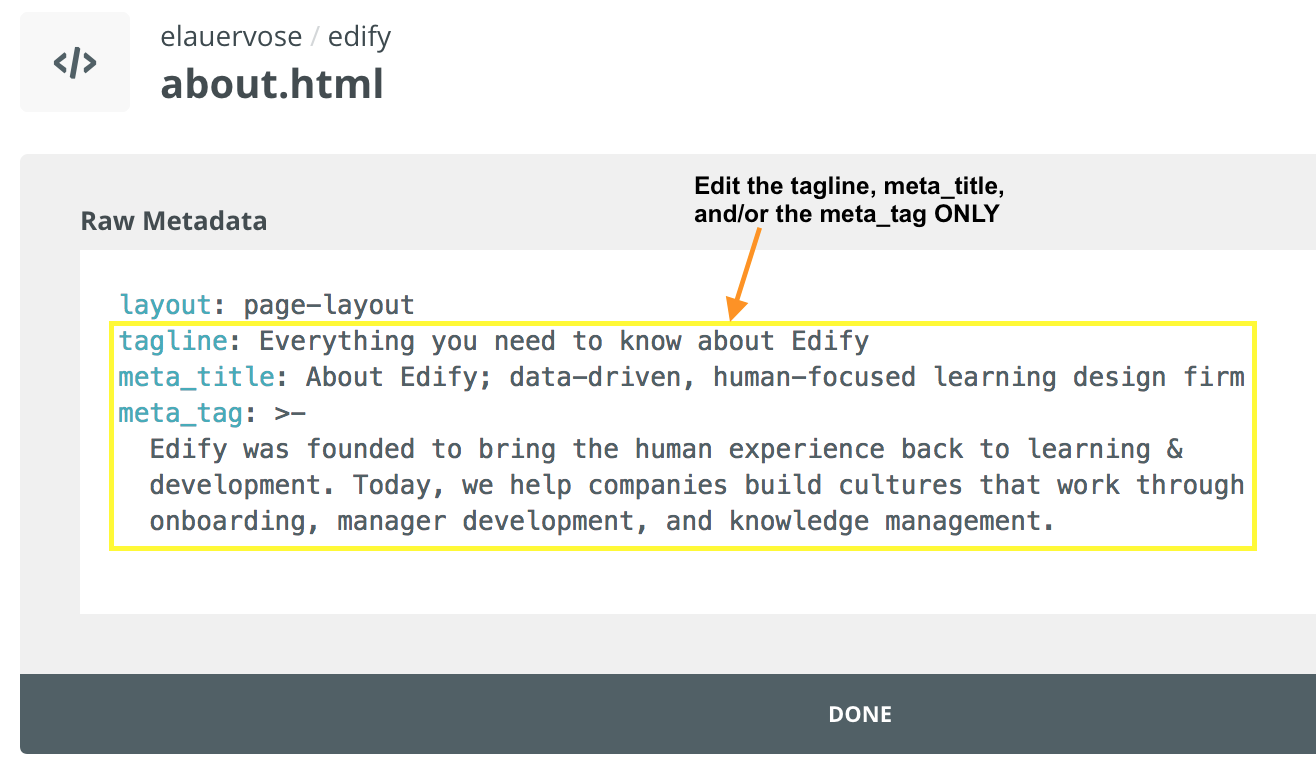
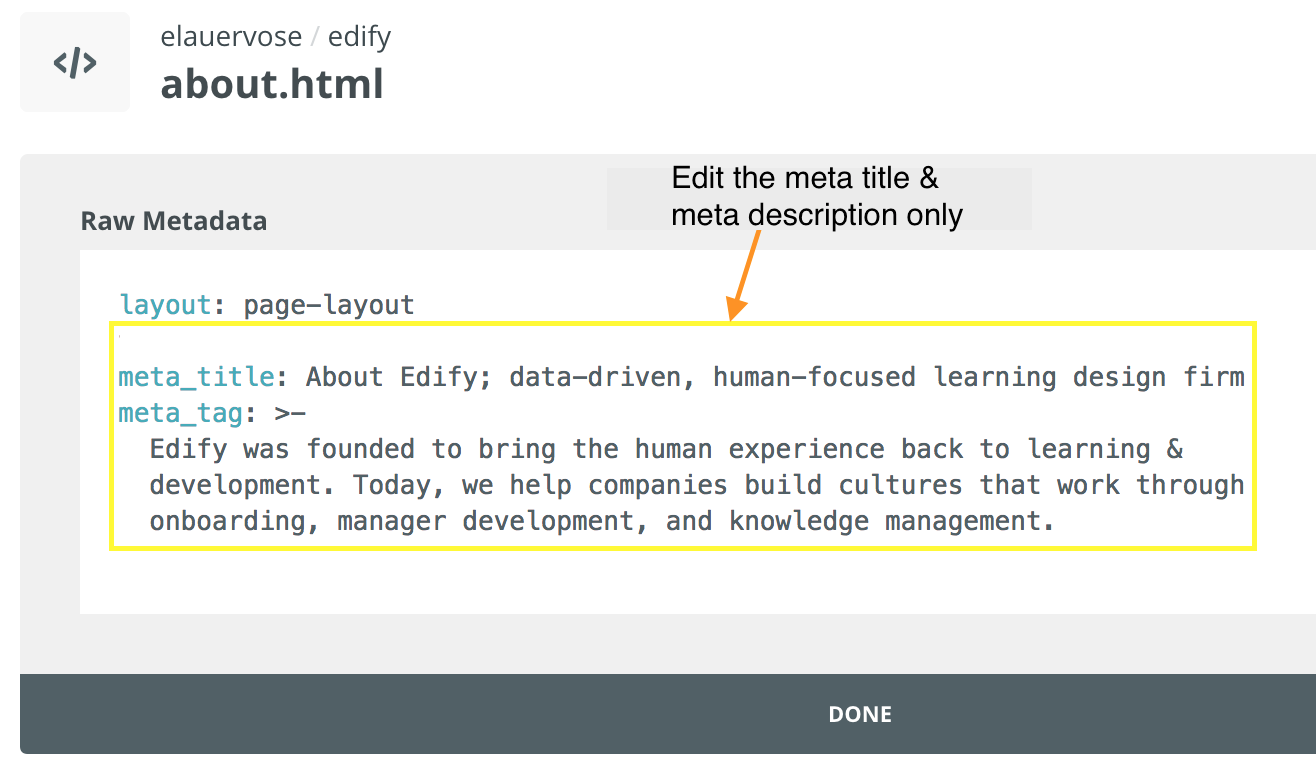
add google analytics and seo tutorial content

Changed region(s): [[0.4985, 0.2171, 0.7789, 0.3101], [0.0935, 0.4341, 0.6543, 0.4651]]

diff --git a/admin.html b/admin.html
@@ -95,7 +95,7 @@ img.metadata-img {
           <li><a href="#process">Adding & Editing Flip Cards</a></li>
           <li><a href="#bio">Editing Bio Content</a></li>
           <li><a href="#pages">Editing Page Details</a></li>
-          <li><a href="#google">Google Analytics</a></li>
+          <li><a href="#google">Google Analytics & SEO</a></li>
         </ul>
 
         <div class="tab-container">
@@ -538,7 +538,7 @@ img.metadata-img {
             <ul class="iconlist">
               <li>
                 <i class="icon-arrow-right"></i>
-                <h5><a href="http://prose.io/#elauervose/edify/edit/master/_data/services.yml" target="_blank">Edit About Page Values</a></h5>
+                <h5><a href="http://prose.io/#elauervose/edify/edit/master/_data/values.yml" target="_blank">Edit About Page Values</a></h5>
                 <p>
                   The values on the about page are in a data file named `values.yml` and is edited exactly like the `clients.yml` file and the bio info in  `kristens_info.yml` file.
                 </p>
@@ -555,7 +555,17 @@ img.metadata-img {
 
             <h5>How to Find the Google Analytics Tracking Code & Add Users</h5>
             <iframe width="560" height="315" src="https://www.youtube.com/embed/U3mO1Ov9hhw" frameborder="0" allowfullscreen></iframe>
+            <div class="clearfix bottommargin"></div>
 
+            <h4>Google Analytics: Flip Card Clicks </h4>
+            <p>
+              Each card has a unique title in the 'questions.yml' data file in order to identify cards in Google Analytics. You can view the data in the custom dashboard under the tab 'Customization' > 'Dashboards' > 'Flip Cards' or the 'Events' tab under 'Behavior' . 'Top Events'.
+            </p>
+
+            <img src="/img/site-images/flip-card-dashboard.png">
+            <div class="clearfix bottommargin-sm"></div>
+            <img src="/img/site-images/flip-card-click-data.png">
+            <div class="clearfix bottommargin"></div>
 
             <h4>Google SEO: Meta Titles & Meta Descriptions</h4>
 
@@ -578,14 +588,7 @@ img.metadata-img {
             </p>
             <div class="clearfix bottommargin-sm"></div>
 
-            <img style="max-width: 300px; float: right; padding-left: 10px; margin-right: 10%;" src="/img/site-images/tagline.png">
-            <h5>What are taglines?</h5>
-            <p>
-              Each webpage has a metadata section with a tagline that shows up under the title on the page like this:
-            </p>
-            <div class="clearfix bottommargin-sm"></div>
-
-            <h5>Editing the Tagline, Title Tags, &/Or Meta Descriptions</h5>
+            <h5>Editing the Title Tags &/Or Meta Descriptions</h5>
             <p>
               Each page has metadata that can be accessed by clicking the metadata icon in exactly the same way as blog post meta data.
             </p>
